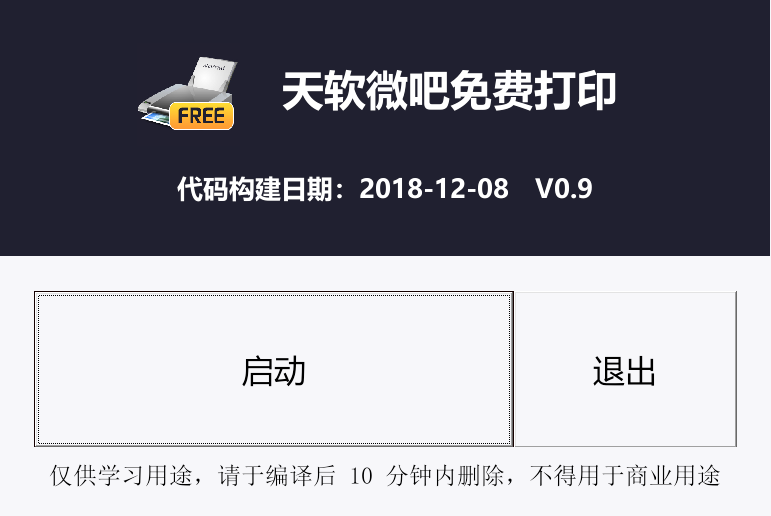
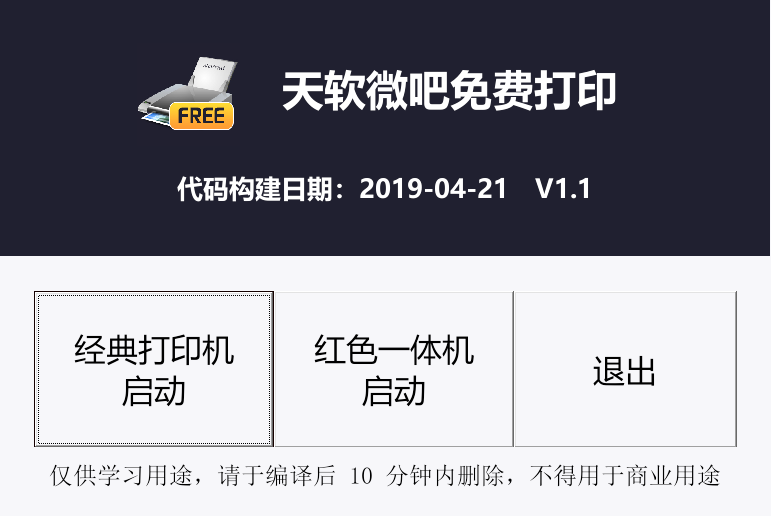
modified:   .gitignore 	modified:   MainForm.frm 	modified:   MainForm.frx 	modified:   README.md 	modified:   Screenshot.png 	modified:   WePrintFree.vbp

Changed region(s): [[0.0934, 0.5581, 0.6848, 0.8682], [0.5292, 0.3411, 0.6848, 0.4031], [0.716, 0.3411, 0.7782, 0.4031]]

diff --git a/README.md b/README.md
@@ -1,6 +1,18 @@
 # WePrint-free-print
+
 Written in Visual Basic. This project doesn't provide executable binary file. Please build with Microsoft Visual Basic 6.0 in your own.
 
 天软微吧免费打印破解工具（仅供学习用途，请于编译后 10 分钟内删除，不得用于商业用途）
 
-真机测试已成功。
+![img](https://raw.githubusercontent.com/ttqf975414890/WePrint-free-print/master/Screenshot.png)
+----
+v1.0 真机测试已成功。  
+v1.1 真机待测试。
+
+---
+## 更新历史
+- ### v1.1
+  `更新日期：2019-04-21`
+- 新增红色一体打印机支持
+- ### v1.0 
+  `更新日期：2018-12-08`
